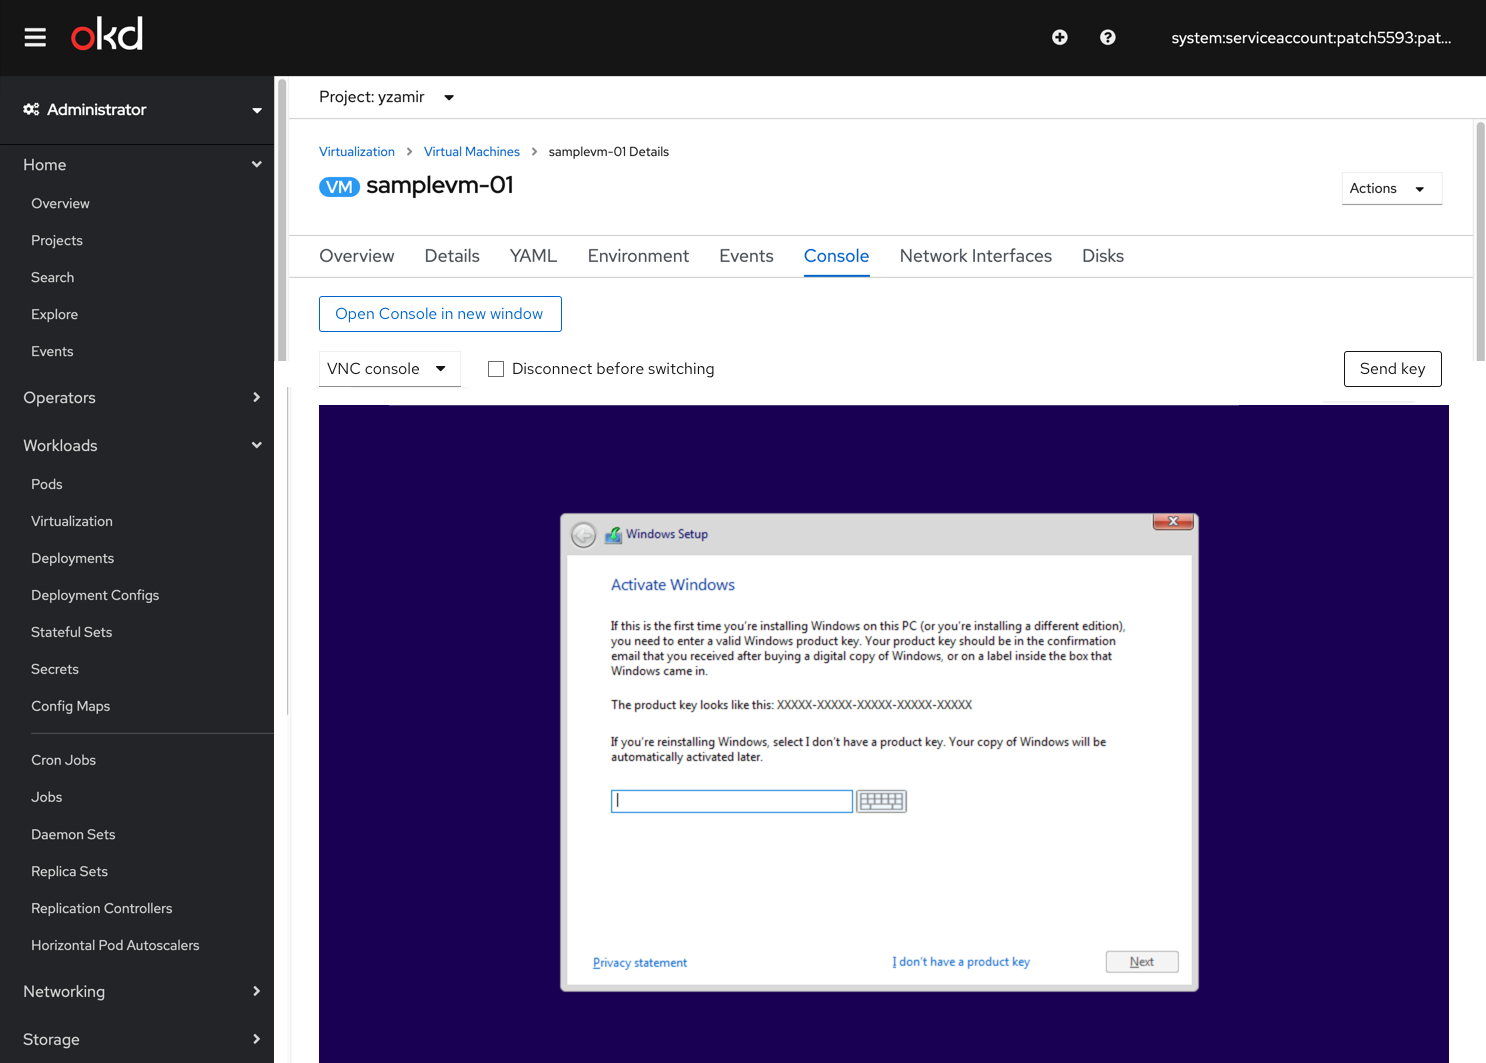
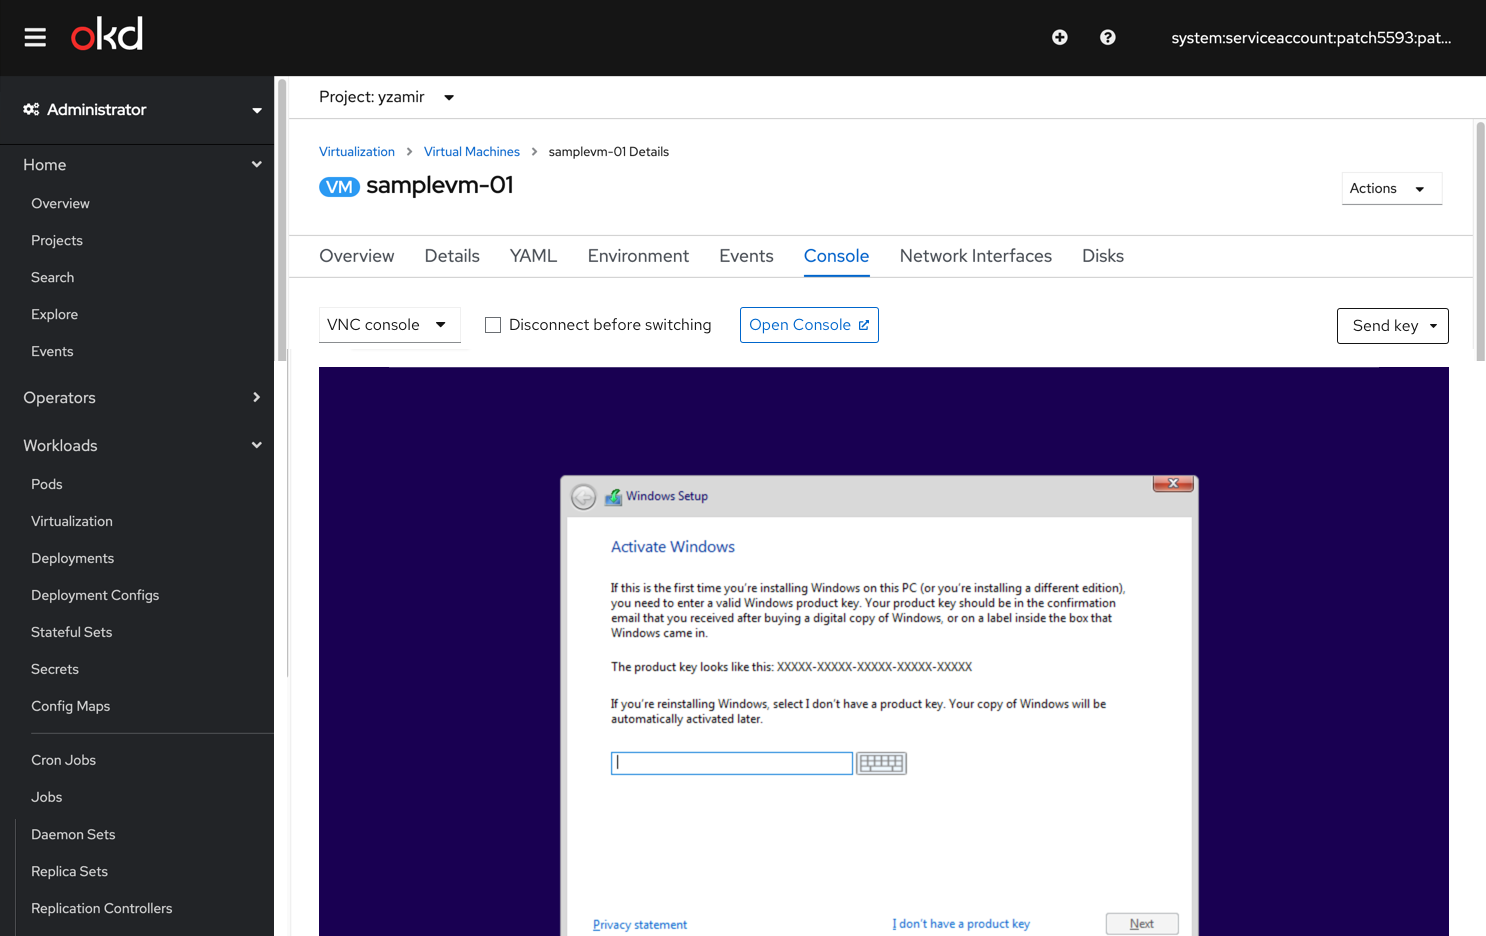
shorter button text and relocation

diff --git a/designs/virtualization/4.x/vnc-in-new-window/vnc-in-new-window.md b/designs/virtualization/4.x/vnc-in-new-window/vnc-in-new-window.md
@@ -6,17 +6,17 @@ version: 4.x
 
 ## In the Administrator console
 
-In order to add an option to open the VNC console in a new window, we’ll add a new button ‘Open Console in new window’ to the existing ‘VNC console’ dropdown with the ‘Disconnect before switching’ checkbox option and ‘Send key’ button.
+In order to add an option to open the VNC console in a new window, we’ll add a new button ‘Open Console’. The default will be set to open the console in a new window.
 
-![oprn from the new button](img/Open-console-1c.png)
+![open from the new button](img/Open-console-1c.png)
 
-Another way to open the VNC Console in a new window can be done via the kebab dropdown menu.
+Another way to open the VNC Console can be done via the kebab dropdown menu.
 
 ![open from the kebab menu](img/Open-console2.png)
 
 ## In the Developer console
 
-In the developer console we’ll have the same option to open the console in new window of the topology view.
+In the developer console we’ll have the same option to open the console of the topology view.
 
 ![open from the topology view](img/vm-topology-actions-open-console.png)
 
@@ -26,7 +26,7 @@ As well as from the Actions dropdown menu.
 
 # Design a VNC detached console
 
-When users click on the ‘Open Console in new window’ button, they will get a detached window that represents another OS (no toolbar).
-If they want to go back to their original Kubevirt cluster they will simply close that window and get back.
+When users click the ‘Open Console’ button, they will get a detached window that represents another OS (no toolbar).
+If they want to go back to their original OpenShift cluster they will simply close that window and get back.
 
 ![detached window ](img/Detached3.png)
